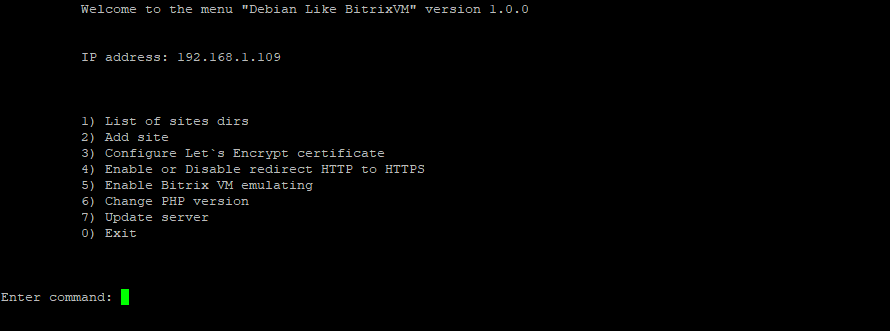
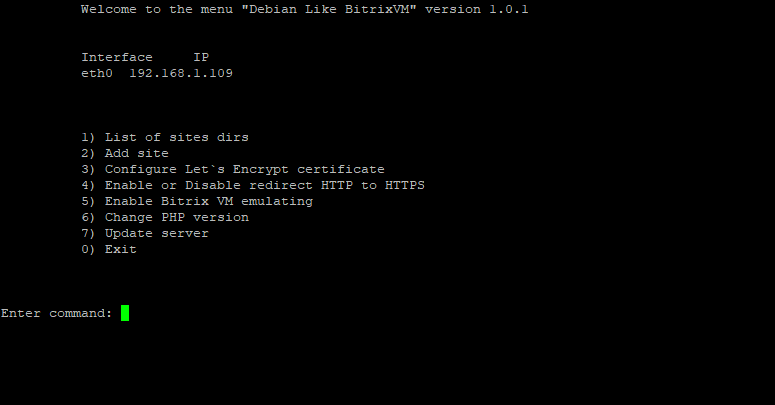
Released new version

diff --git a/CHANGELOG.md b/CHANGELOG.md
@@ -1,5 +1,17 @@
 # Changelog
-Все значимые изменения в этом проекте будут задокументированы в этом файле.
+Все значимые изменения, доработки и новый функционал в этом проекте будут задокументированы в этом файле.
+## 1.0.1 - 17.07.2024 - Вышла новая версия меню
+### Добавлено
+- Поддержка композита для сайтов
+### Изменено
+- Пользователь сайта (www-data) может подключатся по SFTP/SSH
+### Фикс багов
+- Редирект с HTTP на HTTPS для сайта по умолчанию
+- Добавление www для домена при выпуске SSL Let`s Encrypt сертификата
+- Установка временной зоны в UTC при установке окружения (Время в БД и веб-сервере Ошибка! Время отличается на N секунд)
+- Игнорирование ошибок при создании БД, когда создается новый полноценный сайт
+- Скорректировал вывод IP адреса и сетевого интерфейса
+- Корректный вывод IP адреса и сетевого интерфейса на экране или в консоли хостинга 
 ## 1.0.0 - 14.07.2024 - Вышла первая стабильная версия
 ### Добавлено
 - Написаны скрипты для установки как всего окружения, так и отдельно меню

diff --git a/README.md b/README.md
@@ -4,10 +4,10 @@
 # Информация
 Это меню похожее на то, что было у Bitrix VM, но не для CentOS систем, а для Debian 12 (возможно, что будет работать и на 11 версии - я не тестировал). За основу был взят этот репозиторий [(YogSottot) bitrix-gt](https://github.com/YogSottot/bitrix-gt).
 
-Проект пока находится в стадии разработке и тестирования
+Проект пока находится в стадии тестирования
 
 # Установка
-### !!! ВНИМАНИЕ тестирования, поэтому будьте крайне осторожны на рабочих серверах, что-то может не работать или работать не так !!!
+### !!! ВНИМАНИЕ Проект находится на стадии тестирования, поэтому будьте крайне осторожны на рабочих серверах, что-то может не работать или работать не так !!!
 
 ### Установку выполнять от root пользователя
 
